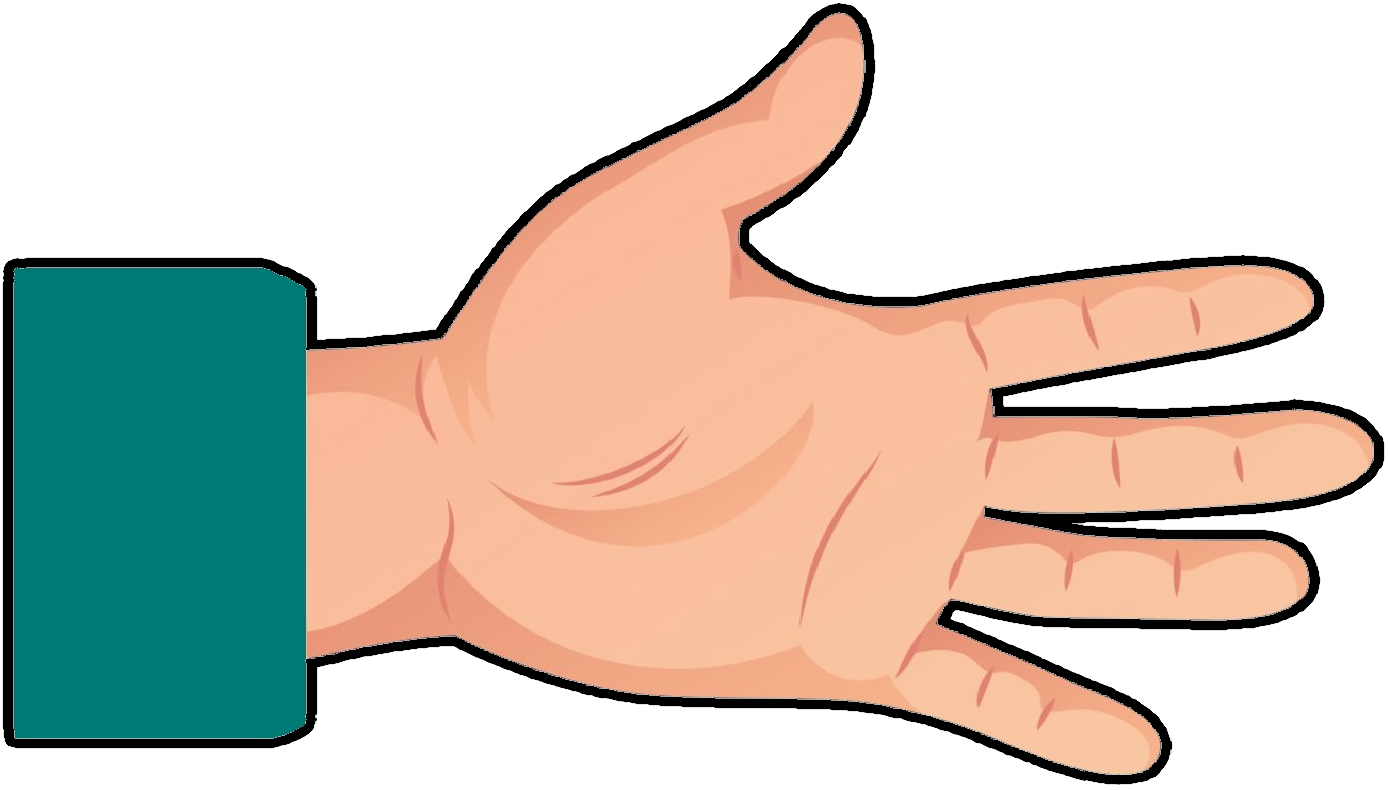
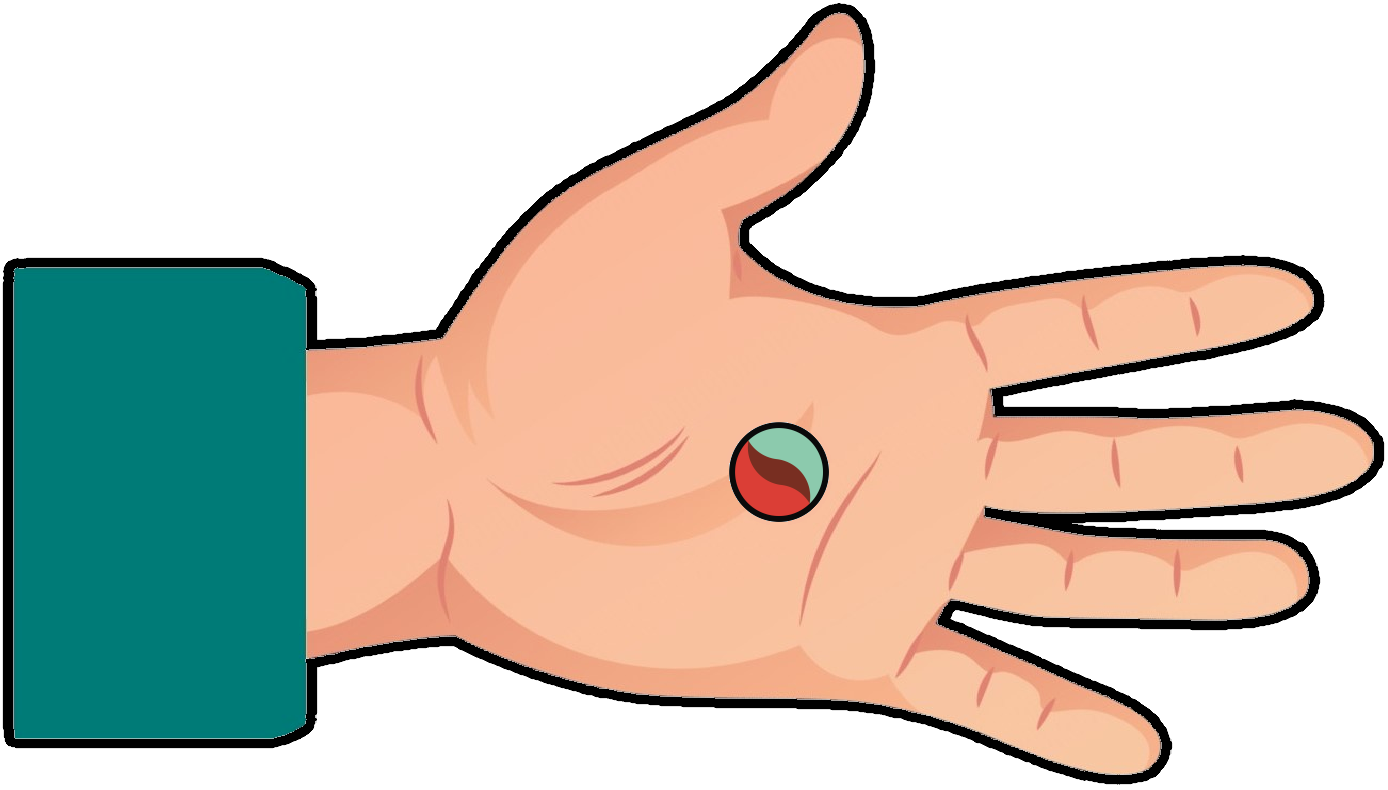
fix: fixed hands overlapping each other

Changed region(s): [[0.5267, 0.5165, 0.6196, 0.6684]]

diff --git a/assets/js/script.js b/assets/js/script.js
@@ -296,8 +296,6 @@ function showWager() {
         wagerButton.addEventListener("click", function () {
             let selectedWager = parseInt(this.value);
             handleWager(selectedWager);
-            clearImage();
-            displayPlayerImage(playerWager);
         });
 
         wagerButtonContainer.appendChild(wagerButton);
@@ -333,7 +331,6 @@ function showHider() {
         hideButton.addEventListener("click", function () {
             let selectedHide = parseInt(this.value);
             handleHider(selectedHide);
-            displayPlayerImage(selectedHide);
         });
 
         hiderButtonContainer.appendChild(hideButton);
@@ -367,6 +364,8 @@ function handleWager(selectedWager) {
 function handleHider(selectedHide) {
     playerHideOE = selectedHide === 1 || selectedHide === 3 ? "odd" : "even";
     hideHider();
+    clearImage();
+    displayPlayerImage(selectedHide)
     compareHider();
 }
 
@@ -393,6 +392,8 @@ function compareOE() {
     displayBubbleImage(bubbleList[bubblePlayer]);
     bubbleImageSection.style.justifyContent = "flex-start";
 
+    clearImage();
+    displayPlayerImage(playerWager);
     displayComputerHiderImage(randomNumber);
 
     // Compare odd or even
